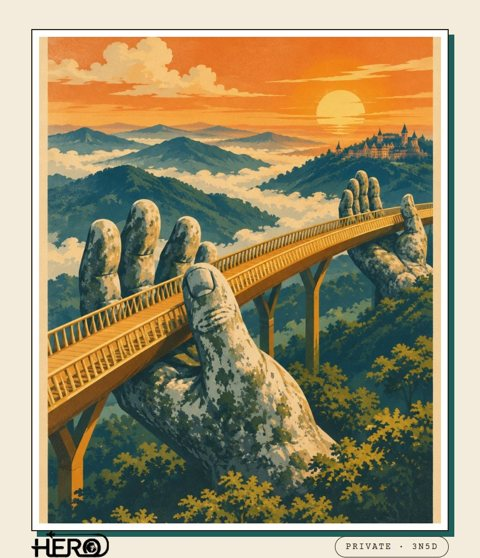
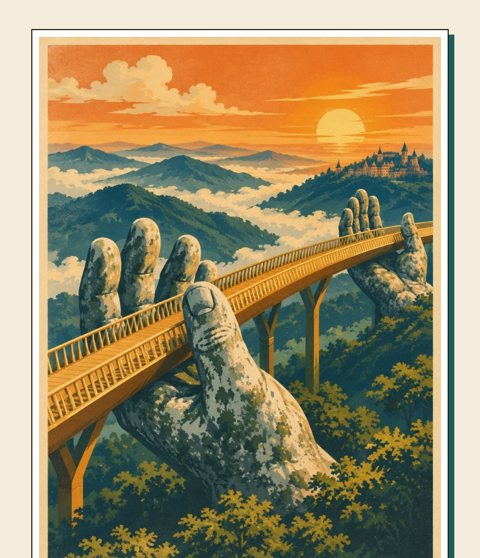
관광지 사진 잘림 제거(원본 비율), A안 표지·2일차 헤더 보정, 카페 등록 방식 안내 추가

diff --git a/a/index.html b/a/index.html
@@ -143,6 +143,17 @@ body{background:#fff;color:var(--ink)}
 .values{background:var(--navy);color:#fff}.values .h2{color:#fff}.values .eyebrow{color:#7CC4FF}.values .vals i{color:#7CC4FF}.values .vals li{border-color:rgba(255,255,255,.15)}.values .trust span{border-color:rgba(255,255,255,.3)}.values .note{color:rgba(255,255,255,.5)}
 .cross{background:#fff}.cross4 a{background:var(--sand)}.cross4 b{color:var(--navy)}
 .cta{background:var(--navy);color:#fff}.cta .cv-kicker{color:#FFD9C2;font-size:36px}.cta p{color:rgba(255,255,255,.7)}.contact div{background:rgba(255,255,255,.07);border:1px solid rgba(255,255,255,.14);color:rgba(255,255,255,.75)}.contact b{color:#fff}
+
+section img:not([alt="HERO"]){width:100%;height:auto!important;max-height:1000px;object-fit:contain!important;aspect-ratio:auto}
+.pics figure,.rv-grid figure,figure.wide,.card,.cross4 a,.strip figure,.poster,.opt2>div,.hot8>div{height:auto!important}
+.cover,.dayhead{height:auto!important;min-height:0!important}
+.cover>img,.dayhead>img{position:relative!important;inset:auto!important;height:auto!important;max-height:none!important}
+.solve>img{height:auto!important;max-height:none!important}
+.cta .grid{align-items:start}
+
+.cover{background:var(--navy)}
+.cover::after{background:linear-gradient(180deg,rgba(11,37,69,.55) 0%,rgba(11,37,69,0) 22%)!important;height:679px;bottom:auto}
+.cv-txt{position:relative!important;left:auto;right:auto;bottom:auto!important;padding:44px 56px 64px}
 </style></head><body style="margin:0 auto"><section class="cover sec-cover"><img src="img/hero_castle.jpg" alt="" ><div class="fade"></div>
 <div class="cv-top"><img class="logo" src="img/logo_white.png" alt="HERO"><span class="pill">PRIVATE · 3N5D</span></div>
 <div class="cv-txt"><div class="cv-kicker">Da Nang &amp; Hoi An</div><h1>다낭 + 호이안<br><em>스페셜팩</em></h1>
@@ -197,7 +208,7 @@ body{background:#fff;color:var(--ink)}
 <section class="sec spot"><div class="pics n1"><figure><img src="img/g_spa.jpg" alt="" ><figcaption>히어로 제휴 스파</figcaption></figure></div><div class="sp-txt"><div class="eyebrow">Body Massage</div><h3>전신 마사지 60분</h3><p>물놀이 후 쌓인 피로를 말끔히 씻어내는 힐링 코스. <b>전문 테라피스트의 세심한 손길</b>로 몸과 마음을 재충전하세요. <b>마사지 팁은 히어로투어가 내드려요.</b></p></div></section>
 <section class="sec spot"><div class="pics n2"><figure><img src="img/dongduong.jpg" alt="" ><figcaption>동즈엉 레스토랑</figcaption></figure><figure><img src="img/g_anji.jpg" alt="" ><figcaption>현지 요리 한 상</figcaption></figure></div><div class="sp-txt"><div class="eyebrow">Dong Duong</div><h3>저녁 · 동즈엉</h3><p>베트남 전통의 멋을 담은 <b>이국적인 인테리어</b>와 아늑한 분위기. 다채로운 현지 요리로 눈과 입을 모두 만족시키는 다낭의 인기 레스토랑이에요.</p></div></section>
 <section class="sec spot"><div class="pics n1"><figure><img src="img/g_dragon.jpg" alt="" ><figcaption>용다리 야경</figcaption></figure></div><div class="sp-txt"><div class="eyebrow">Han River Night</div><h3>한강 야경 · 사랑의 다리</h3><p>해가 지면 다낭의 한강 변은 <b>하트 조명이 켜진 사랑의 다리</b>와 불을 뿜는 <b>용다리</b>로 빛나요. 사랑하는 사람과 자물쇠를 걸고 다낭의 밤을 산책해 보세요.</p></div></section>
-<section class="dayhead d2"><img src="img/hoian_aerial.jpg" alt="" ><div class="dh"><span class="dn">DAY 2</span><h3>등불이 켜지는<br>호이안의 밤으로</h3><p>핑크성당 · 한시장 · 오행산 · 바구니배 · 올드타운 · 소원배</p></div></section>
+<section class="dayhead d2"><img src="img/a_d2.jpg" alt="" ><div class="dh"><span class="dn">DAY 2</span><h3>등불이 켜지는<br>호이안의 밤으로</h3><p>핑크성당 · 한시장 · 오행산 · 바구니배 · 올드타운 · 소원배</p></div></section>
 <section class="sec stubs"><div class="stublist"><div class="stub"><span class="tm">11:00</span><div><h5>호텔 픽업</h5></div><span class="tag t-move">이동</span></div><div class="stub"><span class="tm"></span><div><h5>다낭대성당 (핑크성당)</h5><p>다낭 여행의 필수 인생샷 명소</p></div><span class="tag t-see">관광</span></div><div class="stub"><span class="tm"></span><div><h5>한시장 자유쇼핑</h5><p>다낭 최대 전통시장</p></div><span class="tag t-see">관광</span></div><div class="stub"><span class="tm"></span><div><h5>중식 · 콩카페</h5><p>점심 후 다낭 명물 코코넛 커피 한 잔</p></div><span class="tag t-meal">식사</span></div><div class="stub"><span class="tm"></span><div><h5>전신 마사지 60분</h5></div><span class="tag t-spa">마사지</span></div><div class="stub"><span class="tm"></span><div><h5>오행산 (마블 마운틴)</h5><p>다섯 개의 거대한 대리석 봉우리</p></div><span class="tag t-see">관광</span></div><div class="stub"><span class="tm"></span><div><h5>바구니배</h5><p>코코넛 숲 사이를 둥근 배로</p></div><span class="tag t-see">관광</span></div><div class="stub"><span class="tm"></span><div><h5>호이안 올드타운</h5><p>도시 전체가 유네스코 세계유산</p></div><span class="tag t-see">관광</span></div><div class="stub"><span class="tm"></span><div><h5>석식 · 안지</h5><p>호이안 로컬 맛집</p></div><span class="tag t-meal">식사</span></div><div class="stub"><span class="tm"></span><div><h5>소원배 &amp; 소원초 · 야시장</h5><p>강 위에 소원을 띄우고 야시장 산책</p></div><span class="tag t-see">관광</span></div></div><p class="note">· 위 일정은 기본 투어 일정이며, 현지 상황과 고객 요청에 따라 변동될 수 있어요<br>· 숙소가 시내 외곽 호텔일 경우 거리별 추가 요금이 발생할 수 있어요</p></section>
 <section class="sec spot"><div class="pics n1"><figure><img src="img/g_cathedral.jpg" alt="" ><figcaption>핑크 성당</figcaption></figure></div><div class="sp-txt"><div class="eyebrow">Da Nang Cathedral</div><h3>다낭 대성당 · 핑크 성당</h3><p>프랑스 식민지 시대에 지어진 <b>파스텔 핑크의 고딕 성당</b>. 다낭의 대표 건축물이자 인생샷 명소예요. 성당을 배경으로 꼭 한 컷!</p></div></section>
 <section class="sec spot"><div class="pics n1"><figure><img src="img/g_hanmarket.jpg" alt="" ><figcaption>한시장</figcaption></figure></div><div class="sp-txt"><div class="eyebrow">Han Market</div><h3>한시장 자유쇼핑</h3><p><b>다낭 최대 규모의 전통시장</b>. 말린 망고, 커피, 아오자이, 라탄백까지. 가이드가 물건 시세도 알려주고 흥정도 도와드려요.</p></div></section>

diff --git a/index.html b/index.html
@@ -59,7 +59,10 @@ h1{margin:0;font-size:clamp(30px,5vw,44px);line-height:1.2;letter-spacing:-0.035
 .notes h3{margin:0 0 12px;font-size:18px;letter-spacing:-0.02em}
 .notes ol,.notes ul{margin:0;padding-left:20px;display:grid;gap:6px;font-size:15px;color:var(--mute)}
 .notes li::marker{color:var(--brand);font-weight:700}
-footer{margin-top:44px;font-size:13px;color:var(--mute)}
+.howto{margin-top:24px;background:var(--chip);border:1px solid var(--line);border-radius:18px;padding:26px 28px;display:grid;gap:10px}
+.howto h3{margin:0;font-size:18px;letter-spacing:-0.02em;color:var(--brand-ink)}
+.howto p{margin:0;font-size:15px;color:var(--fg);max-width:70ch}
+footer{margin-top:36px;font-size:13px;color:var(--mute)}
 
 @media (max-width:860px){ .grid,.notes{grid-template-columns:minmax(0,1fr)} }
 @media (max-width:480px){ .card{grid-template-columns:minmax(0,1fr)} .thumb{aspect-ratio:4/3} .wrap{padding-block:36px 56px} }
@@ -174,7 +177,13 @@ footer{margin-top:44px;font-size:13px;color:var(--mute)}
     </section>
   </div>
 
-  <footer>페이지 보기는 카페 화면과 같은 가로 860px로 열려요. 휴대폰에서는 화면에 맞게 축소돼 보여요. 카페 업로드용 분할 파일은 시안 확정 후 따로 전달드려요.</footer>
+  <section class="howto">
+    <h3>카페에는 이렇게 올라가요</h3>
+    <p>네이버 카페 글쓰기 에디터(스마트에디터 ONE)는 HTML 입력을 지원하지 않아요. 그래서 이 페이지는 시안 확인용이고, 시안이 확정되면 카페에 바로 올릴 수 있도록 <b>섹션별로 잘라낸 이미지(가로 860px, 44~48장)</b>와 움직이는 표지 GIF로 전달드려요.</p>
+    <p>이미지 글은 검색에 본문이 잡히지 않으니, 업로드할 때 상품명·일정 요약·가격 같은 핵심 문구를 이미지 사이에 글자로 함께 넣는 것을 권해요. 넣을 문구도 함께 정리해 드릴게요.</p>
+  </section>
+
+  <footer>페이지 보기는 카페 화면과 같은 가로 860px로 열려요. 휴대폰에서는 화면에 맞게 축소돼 보여요.</footer>
 </div>
 </body>
 </html>

diff --git a/b/index.html b/b/index.html
@@ -156,6 +156,13 @@ body::before{content:"";position:fixed;inset:0;pointer-events:none;opacity:.3;ba
 .values{background:var(--teal);color:#F3EBDC}.values .h2{color:#fff}.values .h2 em,.values .eyebrow,.values .vals i{color:var(--mustard)}.values .vals li{border-color:rgba(243,235,220,.2)}.values .trust span{border-color:rgba(243,235,220,.4)}.values .note{color:rgba(243,235,220,.5)}
 .cross{background:var(--paper)}.cross4 a{background:#fff;border:1.5px solid var(--ink);border-radius:0}
 .cta{background:var(--ink);color:var(--paper)}.cta .cv-kicker{font-family:"Playfair Display",serif;font-style:italic;color:var(--mustard);font-size:30px}.cta p{color:rgba(243,235,220,.65)}.kakao{border-radius:0}.contact div{border:1.5px solid rgba(243,235,220,.3);border-radius:0;color:rgba(243,235,220,.7)}.contact b{color:#fff;font-family:"Courier Prime",monospace}
+
+section img:not([alt="HERO"]){width:100%;height:auto!important;max-height:1000px;object-fit:contain!important;aspect-ratio:auto}
+.pics figure,.rv-grid figure,figure.wide,.card,.cross4 a,.strip figure,.poster,.opt2>div,.hot8>div{height:auto!important}
+.cover,.dayhead{height:auto!important;min-height:0!important}
+.cover>img,.dayhead>img{position:relative!important;inset:auto!important;height:auto!important;max-height:none!important}
+.solve>img{height:auto!important;max-height:none!important}
+.cta .grid{align-items:start}
 </style></head><body style="margin:0 auto"><section class="cover sec-cover"><img src="img/poster_goldenbridge.jpg" alt="" ><div class="fade"></div>
 <div class="cv-top"><img class="logo" src="img/logo_white.png" alt="HERO"><span class="pill">PRIVATE · 3N5D</span></div>
 <div class="cv-txt"><div class="cv-kicker">Da Nang &amp; Hoi An</div><h1>다낭 + 호이안<br><em>스페셜팩</em></h1>

diff --git a/c/index.html b/c/index.html
@@ -155,6 +155,13 @@ figure.wide{border-radius:0}figcaption{color:var(--mute);font-size:12px;letter-s
 .cta h2{font-size:40px;font-weight:500;letter-spacing:-0.02em}.cta h2 em{font-style:italic}.cta p{font-size:16px;color:rgba(255,255,255,.6)}
 .kakao{border-radius:0;padding:16px 22px;font-size:17px;font-weight:700;margin-top:28px}.contact{margin-top:40px}.contact div{border-top:1px solid rgba(255,255,255,.25);border-radius:0;padding:18px 0 0;color:rgba(255,255,255,.65);font-size:14px}.contact b{font-family:"Playfair Display",serif;font-weight:400;color:#fff;font-size:22px}
 .cta .logo{margin:50px 0 0;width:120px;opacity:.8}.fine{font-size:12px;color:rgba(255,255,255,.4)}
+
+section img:not([alt="HERO"]){width:100%;height:auto!important;max-height:1000px;object-fit:contain!important;aspect-ratio:auto}
+.pics figure,.rv-grid figure,figure.wide,.card,.cross4 a,.strip figure,.poster,.opt2>div,.hot8>div{height:auto!important}
+.cover,.dayhead{height:auto!important;min-height:0!important}
+.cover>img,.dayhead>img{position:relative!important;inset:auto!important;height:auto!important;max-height:none!important}
+.solve>img{height:auto!important;max-height:none!important}
+.cta .grid{align-items:start}
 </style></head><body style="margin:0 auto"><section class="cover sec-cover"><img src="img/ph_goldenbridge.jpg" alt="" ><div class="fade"></div>
 <div class="cv-top"><img class="logo" src="img/logo_white.png" alt="HERO"><span class="pill">PRIVATE · 3N5D</span></div>
 <div class="cv-txt"><div class="cv-kicker">Da Nang &amp; Hoi An</div><h1>다낭 + 호이안<br><em>스페셜팩</em></h1>

diff --git a/d/index.html b/d/index.html
@@ -171,6 +171,13 @@ figcaption,.pics figcaption{font-weight:800;opacity:1;color:var(--ink);padding:1
 .cta .cv-kicker{background:var(--lime);color:var(--ink)}.cta h2{color:#fff;text-shadow:6px 6px 0 var(--pink);font-size:56px}.cta p{color:#fff;opacity:.85;font-weight:600}
 .kakao{border:3px solid #fff;box-shadow:6px 6px 0 var(--lime);transform:rotate(-2deg)}.contact div{background:var(--violet);color:#fff;border-color:#fff;box-shadow:6px 6px 0 var(--pink)}.contact b{color:var(--lime)}
 .fine{opacity:.7}
+
+section img:not([alt="HERO"]){width:100%;height:auto!important;max-height:1000px;object-fit:contain!important;aspect-ratio:auto}
+.pics figure,.rv-grid figure,figure.wide,.card,.cross4 a,.strip figure,.poster,.opt2>div,.hot8>div{height:auto!important}
+.cover,.dayhead{height:auto!important;min-height:0!important}
+.cover>img,.dayhead>img{position:relative!important;inset:auto!important;height:auto!important;max-height:none!important}
+.solve>img{height:auto!important;max-height:none!important}
+.cta .grid{align-items:start}
 </style></head><body style="margin:0 auto"><section class="cover sec-cover"><img src="img/p_cover.jpg" alt="" ><div class="fade"></div>
 <div class="cv-top"><img class="logo" src="img/logo_white.png" alt="HERO"><span class="pill">PRIVATE · 3N5D</span></div>
 <div class="cv-txt"><div class="cv-kicker">Da Nang &amp; Hoi An</div><h1>다낭 + 호이안<br><em>스페셜팩</em></h1>

diff --git a/e/index.html b/e/index.html
@@ -183,6 +183,13 @@ figcaption,.pics figcaption{color:var(--mute);padding:12px 16px 14px;font-size:1
 .cta{background:var(--green);color:#fff;border-radius:40px 40px 0 0}.cta .cv-kicker{color:var(--sage);font-size:15px}.cta h2{font-size:48px;font-weight:800}.cta p{color:rgba(255,255,255,.75)}
 .kakao{border-radius:99px}.contact div{background:rgba(255,255,255,.08);border-color:rgba(255,255,255,.18);color:rgba(255,255,255,.78);box-shadow:none}.contact b{color:#fff}
 .fine{color:rgba(255,255,255,.5)}
+
+section img:not([alt="HERO"]){width:100%;height:auto!important;max-height:1000px;object-fit:contain!important;aspect-ratio:auto}
+.pics figure,.rv-grid figure,figure.wide,.card,.cross4 a,.strip figure,.poster,.opt2>div,.hot8>div{height:auto!important}
+.cover,.dayhead{height:auto!important;min-height:0!important}
+.cover>img,.dayhead>img{position:relative!important;inset:auto!important;height:auto!important;max-height:none!important}
+.solve>img{height:auto!important;max-height:none!important}
+.cta .grid{align-items:start}
 </style></head><body style="margin:0 auto"><section class="cover sec-cover"><img src="img/e_cover.jpg" alt="" ><div class="fade"></div>
 <div class="cv-top"><img class="logo" src="img/logo_white.png" alt="HERO"><span class="pill">PRIVATE · 3N5D</span></div>
 <div class="cv-txt"><div class="cv-kicker">Da Nang &amp; Hoi An</div><h1>다낭 + 호이안<br><em>스페셜팩</em></h1>

diff --git a/f/index.html b/f/index.html
@@ -288,6 +288,13 @@ figcaption,.pics figcaption{font-size:15px;color:#666}
 .benefits span,.points span,.card span,.trio span,.step4 span,.cross4 span,.stub p,.ov li,.faqlist dd,.vals span,.rv span{opacity:1}
 .dg-fence{height:auto;background:none;opacity:1;font-size:14px;font-weight:700;color:#C24E00;border-top:6px solid #FFC9A3;border-radius:0;padding-top:6px;margin:10px 0 12px}
 .welcome .lead:last-child{color:#666!important}
+
+section img:not([alt="HERO"]){width:100%;height:auto!important;max-height:1000px;object-fit:contain!important;aspect-ratio:auto}
+.pics figure,.rv-grid figure,figure.wide,.card,.cross4 a,.strip figure,.poster,.opt2>div,.hot8>div{height:auto!important}
+.cover,.dayhead{height:auto!important;min-height:0!important}
+.cover>img,.dayhead>img{position:relative!important;inset:auto!important;height:auto!important;max-height:none!important}
+.solve>img{height:auto!important;max-height:none!important}
+.cta .grid{align-items:start}
 </style></head><body style="margin:0 auto"><section class="cover sec-cover"><img src="img/f_cover.jpg" alt="" ><div class="fade"></div>
 <div class="cv-top"><img class="logo" src="img/logo_white.png" alt="HERO"><span class="pill">PRIVATE · 3N5D</span></div>
 <div class="cv-txt"><div class="cv-kicker">Da Nang &amp; Hoi An</div><h1>다낭 + 호이안<br><em>스페셜팩</em></h1>
